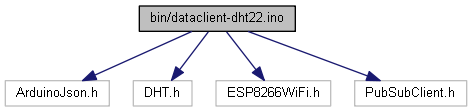
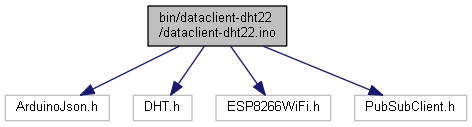
doxygen fix and link

diff --git a/doc/html/dataclient-dht22_8ino.html b/doc/html/dataclient-dht22_8ino.html
@@ -5,7 +5,7 @@
 <meta http-equiv="X-UA-Compatible" content="IE=9"/>
 <meta name="generator" content="Doxygen 1.8.16"/>
 <meta name="viewport" content="width=device-width, initial-scale=1"/>
-<title>dataclient-dht22: Riferimenti per il file bin/dataclient-dht22.ino</title>
+<title>dataclient-dht22: Riferimenti per il file bin/dataclient-dht22/dataclient-dht22.ino</title>
 <link href="tabs.css" rel="stylesheet" type="text/css"/>
 <script type="text/javascript" src="jquery.js"></script>
 <script type="text/javascript" src="dynsections.js"></script>
@@ -61,7 +61,7 @@ $(function() {
 
 <div id="nav-path" class="navpath">
   <ul>
-<li class="navelem"><a class="el" href="dir_2ea30aa2956a8db99dd22aa5e597f384.html">bin</a></li>  </ul>
+<li class="navelem"><a class="el" href="dir_2ea30aa2956a8db99dd22aa5e597f384.html">bin</a></li><li class="navelem"><a class="el" href="dir_3f6a631fc59fe27ff538b9acb8bb3df0.html">dataclient-dht22</a></li>  </ul>
 </div>
 </div><!-- top -->
 <div class="header">
@@ -83,13 +83,13 @@ $(function() {
 </div><div class="textblock"><div class="dynheader">
 Grafo delle dipendenze di inclusione per dataclient-dht22.ino:</div>
 <div class="dyncontent">
-<div class="center"><img src="dataclient-dht22_8ino__incl.png" border="0" usemap="#bin_2dataclient-dht22_8ino" alt=""/></div>
-<map name="bin_2dataclient-dht22_8ino" id="bin_2dataclient-dht22_8ino">
-<area shape="rect" title="DATACLIENT&#45;DHT22: invia i dati recuperati dal dht22 al raspberry via MQTT." alt="" coords="139,5,295,32"/>
-<area shape="rect" title=" " alt="" coords="5,80,109,107"/>
-<area shape="rect" title=" " alt="" coords="133,80,192,107"/>
-<area shape="rect" title=" " alt="" coords="216,80,331,107"/>
-<area shape="rect" title=" " alt="" coords="355,80,467,107"/>
+<div class="center"><img src="dataclient-dht22_8ino__incl.png" border="0" usemap="#bin_2dataclient-dht22_2dataclient-dht22_8ino" alt=""/></div>
+<map name="bin_2dataclient-dht22_2dataclient-dht22_8ino" id="bin_2dataclient-dht22_2dataclient-dht22_8ino">
+<area shape="rect" title="DATACLIENT&#45;DHT22: invia i dati recuperati dal dht22 al raspberry via MQTT." alt="" coords="148,5,287,47"/>
+<area shape="rect" title=" " alt="" coords="5,95,109,121"/>
+<area shape="rect" title=" " alt="" coords="133,95,192,121"/>
+<area shape="rect" title=" " alt="" coords="216,95,331,121"/>
+<area shape="rect" title=" " alt="" coords="355,95,467,121"/>
 </map>
 </div>
 </div><table class="memberdecls">
@@ -143,12 +143,9 @@ Variabili</h2></td></tr>
 <tr class="memitem:aba729b10c25de58d10906ff55bfedfe6"><td class="memItemLeft" align="right" valign="top">const int&#160;</td><td class="memItemRight" valign="bottom"><a class="el" href="dataclient-dht22_8ino.html#aba729b10c25de58d10906ff55bfedfe6">nodeType</a> = 0</td></tr>
 <tr class="memdesc:aba729b10c25de58d10906ff55bfedfe6"><td class="mdescLeft">&#160;</td><td class="mdescRight">tipo di nodo  <a href="dataclient-dht22_8ino.html#aba729b10c25de58d10906ff55bfedfe6">Continua...</a><br /></td></tr>
 <tr class="separator:aba729b10c25de58d10906ff55bfedfe6"><td class="memSeparator" colspan="2">&#160;</td></tr>
-<tr class="memitem:a832256579e70aec4d1ed877ea4f8de51"><td class="memItemLeft" align="right" valign="top">const char&#160;</td><td class="memItemRight" valign="bottom"><a class="el" href="dataclient-dht22_8ino.html#a832256579e70aec4d1ed877ea4f8de51">domain</a> [15] = &quot;raspberry&quot;</td></tr>
-<tr class="memdesc:a832256579e70aec4d1ed877ea4f8de51"><td class="mdescLeft">&#160;</td><td class="mdescRight">IP/nome raspberry.  <a href="dataclient-dht22_8ino.html#a832256579e70aec4d1ed877ea4f8de51">Continua...</a><br /></td></tr>
-<tr class="separator:a832256579e70aec4d1ed877ea4f8de51"><td class="memSeparator" colspan="2">&#160;</td></tr>
-<tr class="memitem:a5c3a4fd5ba9caa71fbbf780cf3f454fa"><td class="memItemLeft" align="right" valign="top">const char *&#160;</td><td class="memItemRight" valign="bottom"><a class="el" href="dataclient-dht22_8ino.html#a5c3a4fd5ba9caa71fbbf780cf3f454fa">mqttServer</a> = <a class="el" href="dataclient-dht22_8ino.html#a832256579e70aec4d1ed877ea4f8de51">domain</a></td></tr>
-<tr class="memdesc:a5c3a4fd5ba9caa71fbbf780cf3f454fa"><td class="mdescLeft">&#160;</td><td class="mdescRight">IP/nome mqtt server.  <a href="dataclient-dht22_8ino.html#a5c3a4fd5ba9caa71fbbf780cf3f454fa">Continua...</a><br /></td></tr>
-<tr class="separator:a5c3a4fd5ba9caa71fbbf780cf3f454fa"><td class="memSeparator" colspan="2">&#160;</td></tr>
+<tr class="memitem:a2ce62b30bf3f07dea1e21cb804f745ec"><td class="memItemLeft" align="right" valign="top">const char&#160;</td><td class="memItemRight" valign="bottom"><a class="el" href="dataclient-dht22_8ino.html#a2ce62b30bf3f07dea1e21cb804f745ec">mqttServer</a> [15] = &quot;raspberry&quot;</td></tr>
+<tr class="memdesc:a2ce62b30bf3f07dea1e21cb804f745ec"><td class="mdescLeft">&#160;</td><td class="mdescRight">IP/dominio mqtt server.  <a href="dataclient-dht22_8ino.html#a2ce62b30bf3f07dea1e21cb804f745ec">Continua...</a><br /></td></tr>
+<tr class="separator:a2ce62b30bf3f07dea1e21cb804f745ec"><td class="memSeparator" colspan="2">&#160;</td></tr>
 <tr class="memitem:ab0e976d2d404b48fc6943d0eff7a5995"><td class="memItemLeft" align="right" valign="top">const int&#160;</td><td class="memItemRight" valign="bottom"><a class="el" href="dataclient-dht22_8ino.html#ab0e976d2d404b48fc6943d0eff7a5995">mqttPort</a> = 1883</td></tr>
 <tr class="memdesc:ab0e976d2d404b48fc6943d0eff7a5995"><td class="mdescLeft">&#160;</td><td class="mdescRight">porta mqtt  <a href="dataclient-dht22_8ino.html#ab0e976d2d404b48fc6943d0eff7a5995">Continua...</a><br /></td></tr>
 <tr class="separator:ab0e976d2d404b48fc6943d0eff7a5995"><td class="memSeparator" colspan="2">&#160;</td></tr>
@@ -204,7 +201,7 @@ Variabili</h2></td></tr>
 <p>Per farlo si usa la funzione <a class="el" href="dataclient-dht22_8ino.html#aab521726203688c14cf1da7acaf2ff80">macAddrToString()</a> </p>
 </blockquote>
 <blockquote class="doxtable">
-<p>Formato: AB:AB:AB:AB:AB:AB </p>
+<p>Formato: @codeAB:AB:AB:AB:AB:AB </p>
 </blockquote>
 <p>Nella funzione <a class="el" href="dataclient-dht22_8ino.html#afe461d27b9c48d5921c00d521181f12f">loop()</a> viene gestita la connessione all'access point di raspberry attraverso la funzione <a class="el" href="dataclient-dht22_8ino.html#a26a10865a648cd7d2bc8bc9cedf7fbd7">WiFiconn()</a> e la connessione al broker MQTT con la funzione <a class="el" href="dataclient-dht22_8ino.html#a9c9dcfb4015f19781a9988b72d1f0400">MQTTconn()</a>. </p><blockquote class="doxtable">
 <p><a class="el" href="dataclient-dht22_8ino.html#a26a10865a648cd7d2bc8bc9cedf7fbd7">WiFiconn()</a> memorizza l'indirizzo IP nella stringa &lt;ipAddr&gt; </p>
@@ -213,8 +210,8 @@ Variabili</h2></td></tr>
 <p><a class="el" href="dataclient-dht22_8ino.html#a9c9dcfb4015f19781a9988b72d1f0400">MQTTconn()</a> annuncia la presenza del sensore al sistema usando la funzione <a class="el" href="dataclient-dht22_8ino.html#a150ffb0f8328a3a283e2cb8933c89b48">present()</a> </p>
 </blockquote>
 <p>Dopo essersi connessi all'AP e al broker MQTT vengono rilevate temperatura e umidita' dal DHT22 e viene misurato l'RSSI. Temperatura, umidita' e RSSI vengono mandati al broker MQTT dalla funzione <a class="el" href="dataclient-dht22_8ino.html#a6e502e8e735f761ce96e1744f8cdbba0">reportData()</a></p>
-<dl class="section author"><dt>Autore</dt><dd>$Stefano Zenaro$ </dd></dl>
-<dl class="section version"><dt>Versione</dt><dd>$01_01$ </dd></dl>
+<dl class="section author"><dt>Autore</dt><dd>Stefano Zenaro </dd></dl>
+<dl class="section version"><dt>Versione</dt><dd>01_01 </dd></dl>
 <dl class="section date"><dt>Data</dt><dd></dd></dl>
 <dl class="section rcs"><dt>Date</dt><dd>2020/02/08 20:42:00 </dd></dl>
 </div><h2 class="groupheader">Documentazione delle definizioni</h2>
@@ -526,7 +523,7 @@ Questo è il grafo dei chiamanti di questa funzione:</div>
       </table>
 </div><div class="memdoc">
 <p>Presenta il dispositivo al sistema via messaggio MQTT.</p>
-<p>Manda sul topic presentation/&lt;mac&gt; il proprio indirizzo MAC, IP e tipo di nodo. Se il dispositivo e' riuscito a inviare il dato il client si iscrive al topic per ottenere configurazioni dal raspberry, altrimenti si disconnette dal broker per cercare di ri-presentarsi alla prossima connessione</p>
+<p>Manda sul topic presentation/&lt;mac&gt; il proprio indirizzo MAC, IP, tipo di nodo e timeToWait. Se il dispositivo e' riuscito a inviare il dato il client si iscrive al topic per ottenere configurazioni dal raspberry, altrimenti si disconnette dal broker per cercare di ri-presentarsi alla prossima connessione</p>
 <div class="dynheader">
 Questo è il grafo delle chiamate per questa funzione:</div>
 <div class="dyncontent">
@@ -748,35 +745,19 @@ Questo è il grafo delle chiamate per questa funzione:</div>
 
 </div>
 </div>
-<a id="a832256579e70aec4d1ed877ea4f8de51"></a>
-<h2 class="memtitle"><span class="permalink"><a href="#a832256579e70aec4d1ed877ea4f8de51">&#9670;&nbsp;</a></span>domain</h2>
+<a id="a2ce62b30bf3f07dea1e21cb804f745ec"></a>
+<h2 class="memtitle"><span class="permalink"><a href="#a2ce62b30bf3f07dea1e21cb804f745ec">&#9670;&nbsp;</a></span>mqttServer</h2>
 
 <div class="memitem">
 <div class="memproto">
       <table class="memname">
         <tr>
-          <td class="memname">const char domain[15] = &quot;raspberry&quot;</td>
+          <td class="memname">const char mqttServer[15] = &quot;raspberry&quot;</td>
         </tr>
       </table>
 </div><div class="memdoc">
 
-<p>IP/nome raspberry. </p>
-
-</div>
-</div>
-<a id="a5c3a4fd5ba9caa71fbbf780cf3f454fa"></a>
-<h2 class="memtitle"><span class="permalink"><a href="#a5c3a4fd5ba9caa71fbbf780cf3f454fa">&#9670;&nbsp;</a></span>mqttServer</h2>
-
-<div class="memitem">
-<div class="memproto">
-      <table class="memname">
-        <tr>
-          <td class="memname">const char* mqttServer = <a class="el" href="dataclient-dht22_8ino.html#a832256579e70aec4d1ed877ea4f8de51">domain</a></td>
-        </tr>
-      </table>
-</div><div class="memdoc">
-
-<p>IP/nome mqtt server. </p>
+<p>IP/dominio mqtt server. </p>
 
 </div>
 </div>
@@ -1021,38 +1002,37 @@ Questo è il grafo delle chiamate per questa funzione:</div>
 </div>
 </div>
 </div><!-- contents -->
-<div class="ttc" id="adataclient-dht22_8ino_html_a7d012d8689a06650286105a11fe38024"><div class="ttname"><a href="dataclient-dht22_8ino.html#a7d012d8689a06650286105a11fe38024">mqttUser</a></div><div class="ttdeci">const char * mqttUser</div><div class="ttdoc">utente mqtt</div><div class="ttdef"><b>Definition:</b> dataclient-dht22.ino:54</div></div>
-<div class="ttc" id="adataclient-dht22_8ino_html_afc1d28cfbce795d6ea954ebe725241f5"><div class="ttname"><a href="dataclient-dht22_8ino.html#afc1d28cfbce795d6ea954ebe725241f5">temperature</a></div><div class="ttdeci">float temperature</div><div class="ttdoc">temperatura Celsius (default 12.34 come test)</div><div class="ttdef"><b>Definition:</b> dataclient-dht22.ino:63</div></div>
-<div class="ttc" id="adataclient-dht22_8ino_html_a9c9dcfb4015f19781a9988b72d1f0400"><div class="ttname"><a href="dataclient-dht22_8ino.html#a9c9dcfb4015f19781a9988b72d1f0400">MQTTconn</a></div><div class="ttdeci">void MQTTconn()</div><div class="ttdef"><b>Definition:</b> dataclient-dht22.ino:182</div></div>
+<div class="ttc" id="adataclient-dht22_8ino_html_a7d012d8689a06650286105a11fe38024"><div class="ttname"><a href="dataclient-dht22_8ino.html#a7d012d8689a06650286105a11fe38024">mqttUser</a></div><div class="ttdeci">const char * mqttUser</div><div class="ttdoc">utente mqtt</div><div class="ttdef"><b>Definition:</b> dataclient-dht22.ino:53</div></div>
+<div class="ttc" id="adataclient-dht22_8ino_html_afc1d28cfbce795d6ea954ebe725241f5"><div class="ttname"><a href="dataclient-dht22_8ino.html#afc1d28cfbce795d6ea954ebe725241f5">temperature</a></div><div class="ttdeci">float temperature</div><div class="ttdoc">temperatura Celsius (default 12.34 come test)</div><div class="ttdef"><b>Definition:</b> dataclient-dht22.ino:62</div></div>
+<div class="ttc" id="adataclient-dht22_8ino_html_a9c9dcfb4015f19781a9988b72d1f0400"><div class="ttname"><a href="dataclient-dht22_8ino.html#a9c9dcfb4015f19781a9988b72d1f0400">MQTTconn</a></div><div class="ttdeci">void MQTTconn()</div><div class="ttdef"><b>Definition:</b> dataclient-dht22.ino:181</div></div>
 <div class="ttc" id="adataclient-dht22_8ino_html_ac3a129f66dc859e2b7279565f4e1de78"><div class="ttname"><a href="dataclient-dht22_8ino.html#ac3a129f66dc859e2b7279565f4e1de78">callback</a></div><div class="ttdeci">void callback(char *topic, byte *payload, unsigned int length)</div><div class="ttdef"><b>Definition:</b> dataclient-dht22.ino:288</div></div>
 <div class="ttc" id="adataclient-dht22_8ino_html_afe461d27b9c48d5921c00d521181f12f"><div class="ttname"><a href="dataclient-dht22_8ino.html#afe461d27b9c48d5921c00d521181f12f">loop</a></div><div class="ttdeci">void loop()</div><div class="ttdef"><b>Definition:</b> dataclient-dht22.ino:428</div></div>
 <div class="ttc" id="adataclient-dht22_8ino_html_a4eabb42c6f4925264712f1141e5fb615"><div class="ttname"><a href="dataclient-dht22_8ino.html#a4eabb42c6f4925264712f1141e5fb615">dim_helper</a></div><div class="ttdeci">char(&amp; dim_helper(T(&amp;)[N]))[N]</div></div>
-<div class="ttc" id="adataclient-dht22_8ino_html_ae8f5cd957935271a64234fe32a13119c"><div class="ttname"><a href="dataclient-dht22_8ino.html#ae8f5cd957935271a64234fe32a13119c">optMainTopic</a></div><div class="ttdeci">char optMainTopic[9]</div><div class="ttdoc">topic principale opzioni</div><div class="ttdef"><b>Definition:</b> dataclient-dht22.ino:58</div></div>
-<div class="ttc" id="adataclient-dht22_8ino_html_adf337f3fdeade1f6e95b99545888802d"><div class="ttname"><a href="dataclient-dht22_8ino.html#adf337f3fdeade1f6e95b99545888802d">macAddr</a></div><div class="ttdeci">char macAddr[18]</div><div class="ttdoc">contiene MAC address</div><div class="ttdef"><b>Definition:</b> dataclient-dht22.ino:73</div></div>
-<div class="ttc" id="adataclient-dht22_8ino_html_a6670f1bf8a46e53e0cb698faccd68b0c"><div class="ttname"><a href="dataclient-dht22_8ino.html#a6670f1bf8a46e53e0cb698faccd68b0c">mqttPassword</a></div><div class="ttdeci">const char * mqttPassword</div><div class="ttdoc">password mqtt</div><div class="ttdef"><b>Definition:</b> dataclient-dht22.ino:55</div></div>
+<div class="ttc" id="adataclient-dht22_8ino_html_ae8f5cd957935271a64234fe32a13119c"><div class="ttname"><a href="dataclient-dht22_8ino.html#ae8f5cd957935271a64234fe32a13119c">optMainTopic</a></div><div class="ttdeci">char optMainTopic[9]</div><div class="ttdoc">topic principale opzioni</div><div class="ttdef"><b>Definition:</b> dataclient-dht22.ino:57</div></div>
+<div class="ttc" id="adataclient-dht22_8ino_html_adf337f3fdeade1f6e95b99545888802d"><div class="ttname"><a href="dataclient-dht22_8ino.html#adf337f3fdeade1f6e95b99545888802d">macAddr</a></div><div class="ttdeci">char macAddr[18]</div><div class="ttdoc">contiene MAC address</div><div class="ttdef"><b>Definition:</b> dataclient-dht22.ino:72</div></div>
+<div class="ttc" id="adataclient-dht22_8ino_html_a6670f1bf8a46e53e0cb698faccd68b0c"><div class="ttname"><a href="dataclient-dht22_8ino.html#a6670f1bf8a46e53e0cb698faccd68b0c">mqttPassword</a></div><div class="ttdeci">const char * mqttPassword</div><div class="ttdoc">password mqtt</div><div class="ttdef"><b>Definition:</b> dataclient-dht22.ino:54</div></div>
 <div class="ttc" id="adataclient-dht22_8ino_html_aee63e84c606cfaefce454689113c636c"><div class="ttname"><a href="dataclient-dht22_8ino.html#aee63e84c606cfaefce454689113c636c">client</a></div><div class="ttdeci">PubSubClient client(espClient)</div><div class="ttdoc">usa client WiFi per MQTT</div></div>
-<div class="ttc" id="adataclient-dht22_8ino_html_ac469baf1a74d8ccd3418803298174f09"><div class="ttname"><a href="dataclient-dht22_8ino.html#ac469baf1a74d8ccd3418803298174f09">timeSinceLastRead</a></div><div class="ttdeci">int timeSinceLastRead</div><div class="ttdoc">variabile tempo dall'ultima lettura DHT</div><div class="ttdef"><b>Definition:</b> dataclient-dht22.ino:65</div></div>
+<div class="ttc" id="adataclient-dht22_8ino_html_ac469baf1a74d8ccd3418803298174f09"><div class="ttname"><a href="dataclient-dht22_8ino.html#ac469baf1a74d8ccd3418803298174f09">timeSinceLastRead</a></div><div class="ttdeci">int timeSinceLastRead</div><div class="ttdoc">variabile tempo dall'ultima lettura DHT</div><div class="ttdef"><b>Definition:</b> dataclient-dht22.ino:64</div></div>
 <div class="ttc" id="adataclient-dht22_8ino_html_a715bd4a5aba9545ff96c20f5026f75db"><div class="ttname"><a href="dataclient-dht22_8ino.html#a715bd4a5aba9545ff96c20f5026f75db">dhtConnected</a></div><div class="ttdeci">#define dhtConnected</div><div class="ttdoc">true = DHT22 utilizzabile/connesso</div><div class="ttdef"><b>Definition:</b> dataclient-dht22.ino:42</div></div>
 <div class="ttc" id="adataclient-dht22_8ino_html_a2c509dba12bba99883a5be9341b7a0c5"><div class="ttname"><a href="dataclient-dht22_8ino.html#a2c509dba12bba99883a5be9341b7a0c5">DHTTYPE</a></div><div class="ttdeci">#define DHTTYPE</div><div class="ttdoc">tipo di sensore DHT (DHT22)</div><div class="ttdef"><b>Definition:</b> dataclient-dht22.ino:46</div></div>
-<div class="ttc" id="adataclient-dht22_8ino_html_a6a87b2b0cff24d38b367ccd34843a206"><div class="ttname"><a href="dataclient-dht22_8ino.html#a6a87b2b0cff24d38b367ccd34843a206">humidity</a></div><div class="ttdeci">float humidity</div><div class="ttdoc">umidita' (default 12.34 come test)</div><div class="ttdef"><b>Definition:</b> dataclient-dht22.ino:62</div></div>
-<div class="ttc" id="adataclient-dht22_8ino_html_a26a10865a648cd7d2bc8bc9cedf7fbd7"><div class="ttname"><a href="dataclient-dht22_8ino.html#a26a10865a648cd7d2bc8bc9cedf7fbd7">WiFiconn</a></div><div class="ttdeci">void WiFiconn()</div><div class="ttdef"><b>Definition:</b> dataclient-dht22.ino:86</div></div>
+<div class="ttc" id="adataclient-dht22_8ino_html_a6a87b2b0cff24d38b367ccd34843a206"><div class="ttname"><a href="dataclient-dht22_8ino.html#a6a87b2b0cff24d38b367ccd34843a206">humidity</a></div><div class="ttdeci">float humidity</div><div class="ttdoc">umidita' (default 12.34 come test)</div><div class="ttdef"><b>Definition:</b> dataclient-dht22.ino:61</div></div>
+<div class="ttc" id="adataclient-dht22_8ino_html_a26a10865a648cd7d2bc8bc9cedf7fbd7"><div class="ttname"><a href="dataclient-dht22_8ino.html#a26a10865a648cd7d2bc8bc9cedf7fbd7">WiFiconn</a></div><div class="ttdeci">void WiFiconn()</div><div class="ttdef"><b>Definition:</b> dataclient-dht22.ino:85</div></div>
 <div class="ttc" id="adataclient-dht22_8ino_html_ad7a1df263f6f823242a112ec11297434"><div class="ttname"><a href="dataclient-dht22_8ino.html#ad7a1df263f6f823242a112ec11297434">dht</a></div><div class="ttdeci">DHT dht(DHTPIN, DHTTYPE)</div><div class="ttdoc">creazione oggetto dht</div></div>
-<div class="ttc" id="adataclient-dht22_8ino_html_ac5a38fc25a4e37970a393d8e794b37c4"><div class="ttname"><a href="dataclient-dht22_8ino.html#ac5a38fc25a4e37970a393d8e794b37c4">ipAddr</a></div><div class="ttdeci">char ipAddr[16]</div><div class="ttdoc">contiene IP address</div><div class="ttdef"><b>Definition:</b> dataclient-dht22.ino:72</div></div>
-<div class="ttc" id="adataclient-dht22_8ino_html_aab521726203688c14cf1da7acaf2ff80"><div class="ttname"><a href="dataclient-dht22_8ino.html#aab521726203688c14cf1da7acaf2ff80">macAddrToString</a></div><div class="ttdeci">void macAddrToString(byte *mac, char *str)</div><div class="ttdef"><b>Definition:</b> dataclient-dht22.ino:155</div></div>
+<div class="ttc" id="adataclient-dht22_8ino_html_ac5a38fc25a4e37970a393d8e794b37c4"><div class="ttname"><a href="dataclient-dht22_8ino.html#ac5a38fc25a4e37970a393d8e794b37c4">ipAddr</a></div><div class="ttdeci">char ipAddr[16]</div><div class="ttdoc">contiene IP address</div><div class="ttdef"><b>Definition:</b> dataclient-dht22.ino:71</div></div>
+<div class="ttc" id="adataclient-dht22_8ino_html_aab521726203688c14cf1da7acaf2ff80"><div class="ttname"><a href="dataclient-dht22_8ino.html#aab521726203688c14cf1da7acaf2ff80">macAddrToString</a></div><div class="ttdeci">void macAddrToString(byte *mac, char *str)</div><div class="ttdef"><b>Definition:</b> dataclient-dht22.ino:154</div></div>
 <div class="ttc" id="adataclient-dht22_8ino_html_a4fc01d736fe50cf5b977f755b675f11d"><div class="ttname"><a href="dataclient-dht22_8ino.html#a4fc01d736fe50cf5b977f755b675f11d">setup</a></div><div class="ttdeci">void setup()</div><div class="ttdef"><b>Definition:</b> dataclient-dht22.ino:395</div></div>
 <div class="ttc" id="adataclient-dht22_8ino_html_aba729b10c25de58d10906ff55bfedfe6"><div class="ttname"><a href="dataclient-dht22_8ino.html#aba729b10c25de58d10906ff55bfedfe6">nodeType</a></div><div class="ttdeci">const int nodeType</div><div class="ttdoc">tipo di nodo</div><div class="ttdef"><b>Definition:</b> dataclient-dht22.ino:48</div></div>
-<div class="ttc" id="adataclient-dht22_8ino_html_abd670c5c7d88e028d53f03b2ff07b720"><div class="ttname"><a href="dataclient-dht22_8ino.html#abd670c5c7d88e028d53f03b2ff07b720">timeToWait</a></div><div class="ttdeci">int timeToWait</div><div class="ttdoc">variabile tempo da aspettare per interrogare DHT (minimo 2000 [ms])</div><div class="ttdef"><b>Definition:</b> dataclient-dht22.ino:66</div></div>
-<div class="ttc" id="adataclient-dht22_8ino_html_a586c86c64e7d30517aeee0fe47a25ae4"><div class="ttname"><a href="dataclient-dht22_8ino.html#a586c86c64e7d30517aeee0fe47a25ae4">WIFI_SSID</a></div><div class="ttdeci">const char * WIFI_SSID</div><div class="ttdoc">SSID access point.</div><div class="ttdef"><b>Definition:</b> dataclient-dht22.ino:69</div></div>
-<div class="ttc" id="adataclient-dht22_8ino_html_a4b637d7e13b7c44fa7b411ba7b6301f2"><div class="ttname"><a href="dataclient-dht22_8ino.html#a4b637d7e13b7c44fa7b411ba7b6301f2">dataMainTopic</a></div><div class="ttdeci">char dataMainTopic[6]</div><div class="ttdoc">topic principale dati</div><div class="ttdef"><b>Definition:</b> dataclient-dht22.ino:59</div></div>
-<div class="ttc" id="adataclient-dht22_8ino_html_ab0e976d2d404b48fc6943d0eff7a5995"><div class="ttname"><a href="dataclient-dht22_8ino.html#ab0e976d2d404b48fc6943d0eff7a5995">mqttPort</a></div><div class="ttdeci">const int mqttPort</div><div class="ttdoc">porta mqtt</div><div class="ttdef"><b>Definition:</b> dataclient-dht22.ino:53</div></div>
-<div class="ttc" id="adataclient-dht22_8ino_html_aa0d894a281cd4525d1dad48b1a7161ef"><div class="ttname"><a href="dataclient-dht22_8ino.html#aa0d894a281cd4525d1dad48b1a7161ef">WIFI_PASS</a></div><div class="ttdeci">const char * WIFI_PASS</div><div class="ttdoc">Passphrase access point.</div><div class="ttdef"><b>Definition:</b> dataclient-dht22.ino:70</div></div>
+<div class="ttc" id="adataclient-dht22_8ino_html_abd670c5c7d88e028d53f03b2ff07b720"><div class="ttname"><a href="dataclient-dht22_8ino.html#abd670c5c7d88e028d53f03b2ff07b720">timeToWait</a></div><div class="ttdeci">int timeToWait</div><div class="ttdoc">variabile tempo da aspettare per interrogare DHT (minimo 2000 [ms])</div><div class="ttdef"><b>Definition:</b> dataclient-dht22.ino:65</div></div>
+<div class="ttc" id="adataclient-dht22_8ino_html_a586c86c64e7d30517aeee0fe47a25ae4"><div class="ttname"><a href="dataclient-dht22_8ino.html#a586c86c64e7d30517aeee0fe47a25ae4">WIFI_SSID</a></div><div class="ttdeci">const char * WIFI_SSID</div><div class="ttdoc">SSID access point.</div><div class="ttdef"><b>Definition:</b> dataclient-dht22.ino:68</div></div>
+<div class="ttc" id="adataclient-dht22_8ino_html_a2ce62b30bf3f07dea1e21cb804f745ec"><div class="ttname"><a href="dataclient-dht22_8ino.html#a2ce62b30bf3f07dea1e21cb804f745ec">mqttServer</a></div><div class="ttdeci">const char mqttServer[15]</div><div class="ttdoc">IP/dominio mqtt server.</div><div class="ttdef"><b>Definition:</b> dataclient-dht22.ino:51</div></div>
+<div class="ttc" id="adataclient-dht22_8ino_html_a4b637d7e13b7c44fa7b411ba7b6301f2"><div class="ttname"><a href="dataclient-dht22_8ino.html#a4b637d7e13b7c44fa7b411ba7b6301f2">dataMainTopic</a></div><div class="ttdeci">char dataMainTopic[6]</div><div class="ttdoc">topic principale dati</div><div class="ttdef"><b>Definition:</b> dataclient-dht22.ino:58</div></div>
+<div class="ttc" id="adataclient-dht22_8ino_html_ab0e976d2d404b48fc6943d0eff7a5995"><div class="ttname"><a href="dataclient-dht22_8ino.html#ab0e976d2d404b48fc6943d0eff7a5995">mqttPort</a></div><div class="ttdeci">const int mqttPort</div><div class="ttdoc">porta mqtt</div><div class="ttdef"><b>Definition:</b> dataclient-dht22.ino:52</div></div>
+<div class="ttc" id="adataclient-dht22_8ino_html_aa0d894a281cd4525d1dad48b1a7161ef"><div class="ttname"><a href="dataclient-dht22_8ino.html#aa0d894a281cd4525d1dad48b1a7161ef">WIFI_PASS</a></div><div class="ttdeci">const char * WIFI_PASS</div><div class="ttdoc">Passphrase access point.</div><div class="ttdef"><b>Definition:</b> dataclient-dht22.ino:69</div></div>
 <div class="ttc" id="adataclient-dht22_8ino_html_ad43d79e2dc6c459e188e5540e0f30129"><div class="ttname"><a href="dataclient-dht22_8ino.html#ad43d79e2dc6c459e188e5540e0f30129">dim</a></div><div class="ttdeci">#define dim(x)</div><div class="ttdef"><b>Definition:</b> dataclient-dht22.ino:30</div></div>
-<div class="ttc" id="adataclient-dht22_8ino_html_a5c3a4fd5ba9caa71fbbf780cf3f454fa"><div class="ttname"><a href="dataclient-dht22_8ino.html#a5c3a4fd5ba9caa71fbbf780cf3f454fa">mqttServer</a></div><div class="ttdeci">const char * mqttServer</div><div class="ttdoc">IP/nome mqtt server.</div><div class="ttdef"><b>Definition:</b> dataclient-dht22.ino:52</div></div>
-<div class="ttc" id="adataclient-dht22_8ino_html_a150ffb0f8328a3a283e2cb8933c89b48"><div class="ttname"><a href="dataclient-dht22_8ino.html#a150ffb0f8328a3a283e2cb8933c89b48">present</a></div><div class="ttdeci">void present()</div><div class="ttdef"><b>Definition:</b> dataclient-dht22.ino:237</div></div>
+<div class="ttc" id="adataclient-dht22_8ino_html_a150ffb0f8328a3a283e2cb8933c89b48"><div class="ttname"><a href="dataclient-dht22_8ino.html#a150ffb0f8328a3a283e2cb8933c89b48">present</a></div><div class="ttdeci">void present()</div><div class="ttdef"><b>Definition:</b> dataclient-dht22.ino:236</div></div>
 <div class="ttc" id="adataclient-dht22_8ino_html_a6e502e8e735f761ce96e1744f8cdbba0"><div class="ttname"><a href="dataclient-dht22_8ino.html#a6e502e8e735f761ce96e1744f8cdbba0">reportData</a></div><div class="ttdeci">void reportData(float t_humidity, float t_temp, int t_rssi)</div><div class="ttdef"><b>Definition:</b> dataclient-dht22.ino:350</div></div>
-<div class="ttc" id="adataclient-dht22_8ino_html_a8c2ce2bfcc55084c237040e1712f2ce6"><div class="ttname"><a href="dataclient-dht22_8ino.html#a8c2ce2bfcc55084c237040e1712f2ce6">prMainTopic</a></div><div class="ttdeci">char prMainTopic[14]</div><div class="ttdoc">topic principale presentazione</div><div class="ttdef"><b>Definition:</b> dataclient-dht22.ino:57</div></div>
-<div class="ttc" id="adataclient-dht22_8ino_html_a832256579e70aec4d1ed877ea4f8de51"><div class="ttname"><a href="dataclient-dht22_8ino.html#a832256579e70aec4d1ed877ea4f8de51">domain</a></div><div class="ttdeci">const char domain[15]</div><div class="ttdoc">IP/nome raspberry.</div><div class="ttdef"><b>Definition:</b> dataclient-dht22.ino:49</div></div>
-<div class="ttc" id="adataclient-dht22_8ino_html_abd77e757e4b3bb6f1e4b42b21ea9e040"><div class="ttname"><a href="dataclient-dht22_8ino.html#abd77e757e4b3bb6f1e4b42b21ea9e040">espClient</a></div><div class="ttdeci">WiFiClient espClient</div><div class="ttdoc">crea un client WiFI</div><div class="ttdef"><b>Definition:</b> dataclient-dht22.ino:80</div></div>
+<div class="ttc" id="adataclient-dht22_8ino_html_a8c2ce2bfcc55084c237040e1712f2ce6"><div class="ttname"><a href="dataclient-dht22_8ino.html#a8c2ce2bfcc55084c237040e1712f2ce6">prMainTopic</a></div><div class="ttdeci">char prMainTopic[14]</div><div class="ttdoc">topic principale presentazione</div><div class="ttdef"><b>Definition:</b> dataclient-dht22.ino:56</div></div>
+<div class="ttc" id="adataclient-dht22_8ino_html_abd77e757e4b3bb6f1e4b42b21ea9e040"><div class="ttname"><a href="dataclient-dht22_8ino.html#abd77e757e4b3bb6f1e4b42b21ea9e040">espClient</a></div><div class="ttdeci">WiFiClient espClient</div><div class="ttdoc">crea un client WiFI</div><div class="ttdef"><b>Definition:</b> dataclient-dht22.ino:79</div></div>
 <div class="ttc" id="adataclient-dht22_8ino_html_af99a155b83efd55836851d9737899e55"><div class="ttname"><a href="dataclient-dht22_8ino.html#af99a155b83efd55836851d9737899e55">serialDebug</a></div><div class="ttdeci">#define serialDebug</div><div class="ttdoc">true = visualizza messaggi di debug attraverso comunicazione seriale</div><div class="ttdef"><b>Definition:</b> dataclient-dht22.ino:43</div></div>
 <div class="ttc" id="adataclient-dht22_8ino_html_a757bb4e2bff6148de6ef3989b32a0126"><div class="ttname"><a href="dataclient-dht22_8ino.html#a757bb4e2bff6148de6ef3989b32a0126">DHTPIN</a></div><div class="ttdeci">#define DHTPIN</div><div class="ttdoc">pin dato del DHT22</div><div class="ttdef"><b>Definition:</b> dataclient-dht22.ino:45</div></div>
 <!-- start footer part -->

diff --git a/doc/html/index.html b/doc/html/index.html
@@ -130,20 +130,20 @@ $(function() {
 <p>Selezionare da <code>Strumenti</code> la porta a cui e' connessa la scheda e premere il pulsante <code>Carica</code> per caricare lo sketch.</p>
 <h1>Descrizione</h1>
 <p><img src="doc/assets/setup_loop.svg" alt="" class="inline"/></p>
-<p>Come in tutti gli sketch arduino vengono definiti variabili e oggetti, poi viene richiamata una volta la funzione <code>setup()</code> e infine viene richiamata "all'infinito" la funzione <code>loop()</code></p>
+<p>Come in tutti gli sketch arduino vengono definiti variabili e oggetti, poi viene richiamata una volta la funzione <code><a class="el" href="dataclient-dht22_8ino.html#a4fc01d736fe50cf5b977f755b675f11d">setup()</a></code> e infine viene richiamata "all'infinito" la funzione <code><a class="el" href="dataclient-dht22_8ino.html#afe461d27b9c48d5921c00d521181f12f">loop()</a></code></p>
 <p><img src="doc/assets/setup.svg" alt="" class="inline"/></p>
-<p>La funzione <code>setup()</code> richiama la funzione <code>macAddrToString()</code> per definire nella variabile stringa <code>&lt;macAddr&gt;</code> l'indirizzo MAC. La funzione poi si assicura che <code>&lt;timeToWait&gt;</code>, il tempo interposto tra le rilevazioni, sia un numero accettabile (&gt;= 2000 [ms]) </p><blockquote class="doxtable">
+<p>La funzione <code><a class="el" href="dataclient-dht22_8ino.html#a4fc01d736fe50cf5b977f755b675f11d">setup()</a></code> richiama la funzione <code><a class="el" href="dataclient-dht22_8ino.html#aab521726203688c14cf1da7acaf2ff80">macAddrToString()</a></code> per definire nella variabile stringa <code>&lt;macAddr&gt;</code> l'indirizzo MAC. La funzione poi si assicura che <code>&lt;timeToWait&gt;</code>, il tempo interposto tra le rilevazioni, sia un numero accettabile (&gt;= 2000 [ms]) </p><blockquote class="doxtable">
 <p>Altrimenti viene impostato 2000 come valore di default (2 secondi tra lettura) </p>
 </blockquote>
 <p><img src="doc/assets/loop.svg" alt="" class="inline"/></p>
-<p>La funzione <code>loop()</code> mantiene la scheda connessa all'access point di raspberry (con la funzione <code>WiFiconn()</code>) e al broker MQTT (con la funzione <code>MQTTconn()</code> e il metodo <code>client.loop()</code>). Se la scheda e' connessa a WiFi e broker MQTT si verifica se e' stato atteso il tempo <code>&lt;timeToWait&gt;</code>: se e' così viene rilevata temperatura e umidita' e memorizzato l'RSSI.</p>
-<p>Lo sketch, dopo essersi assicurato che le rilevazioni hanno avuto successo, utilizza la funzione <code>reportData()</code> per inviare i dati al broker MQTT.</p>
-<p>Per la documentazione dettagliata del codice (creata da doxygen) visitare <a href="doc/html/index.html">questa pagina</a></p>
+<p>La funzione <code><a class="el" href="dataclient-dht22_8ino.html#afe461d27b9c48d5921c00d521181f12f">loop()</a></code> mantiene la scheda connessa all'access point di raspberry (con la funzione <code><a class="el" href="dataclient-dht22_8ino.html#a26a10865a648cd7d2bc8bc9cedf7fbd7">WiFiconn()</a></code>) e al broker MQTT (con la funzione <code><a class="el" href="dataclient-dht22_8ino.html#a9c9dcfb4015f19781a9988b72d1f0400">MQTTconn()</a></code> e il metodo <code>client.loop()</code>). Se la scheda e' connessa a WiFi e broker MQTT si verifica se e' stato atteso il tempo <code>&lt;timeToWait&gt;</code>: se e' così viene rilevata temperatura e umidita' e memorizzato l'RSSI.</p>
+<p>Lo sketch, dopo essersi assicurato che le rilevazioni hanno avuto successo, utilizza la funzione <code><a class="el" href="dataclient-dht22_8ino.html#a6e502e8e735f761ce96e1744f8cdbba0">reportData()</a></code> per inviare i dati al broker MQTT.</p>
+<p>Per la documentazione dettagliata del codice (creata da doxygen) visitare <a href="https://progetto201.github.io/dataclient-dht22/doc/html/index.html">questa pagina</a></p>
 <h2>Dettagli funzioni</h2>
 <pre class="fragment">macAddrToString()
 </pre><p> Scorre l'array di byte restituito da <code>WiFi.macAddress()</code>, concatena come stringa i byte e la salva in <code>&lt;macAddr&gt;</code> </p><pre class="fragment">WiFiconn()
 </pre><p> Si connette al WiFi e salva nella stringa <code>&lt;ipAddr&gt;</code> l'indirizzo IP </p><pre class="fragment">MQTTconn()
-</pre><p> Si connette al broker MQTT e richiama la funzione <code>present()</code> </p><pre class="fragment">present()
+</pre><p> Si connette al broker MQTT e richiama la funzione <code><a class="el" href="dataclient-dht22_8ino.html#a150ffb0f8328a3a283e2cb8933c89b48">present()</a></code> </p><pre class="fragment">present()
 </pre><p> Invia al broker MQTT indirizzi IP e MAC, tipo di nodo e <code>&lt;timeToWait&gt;</code> in formato JSON </p><pre class="fragment">reportData()
 </pre><p> Invia al broker MQTT i dati rilevati dal sensore e l'RSSI in formato JSON</p>
 <h1>Requisiti</h1>

diff --git a/doc/html/dir_3f6a631fc59fe27ff538b9acb8bb3df0.html b/doc/html/dir_3f6a631fc59fe27ff538b9acb8bb3df0.html
@@ -5,7 +5,7 @@
 <meta http-equiv="X-UA-Compatible" content="IE=9"/>
 <meta name="generator" content="Doxygen 1.8.16"/>
 <meta name="viewport" content="width=device-width, initial-scale=1"/>
-<title>dataclient-dht22: Riferimenti per la directory bin</title>
+<title>dataclient-dht22: Riferimenti per la directory bin/dataclient-dht22</title>
 <link href="tabs.css" rel="stylesheet" type="text/css"/>
 <script type="text/javascript" src="jquery.js"></script>
 <script type="text/javascript" src="dynsections.js"></script>
@@ -61,18 +61,19 @@ $(function() {
 
 <div id="nav-path" class="navpath">
   <ul>
-<li class="navelem"><a class="el" href="dir_2ea30aa2956a8db99dd22aa5e597f384.html">bin</a></li>  </ul>
+<li class="navelem"><a class="el" href="dir_2ea30aa2956a8db99dd22aa5e597f384.html">bin</a></li><li class="navelem"><a class="el" href="dir_3f6a631fc59fe27ff538b9acb8bb3df0.html">dataclient-dht22</a></li>  </ul>
 </div>
 </div><!-- top -->
 <div class="header">
   <div class="headertitle">
-<div class="title">Riferimenti per la directory bin</div>  </div>
+<div class="title">Riferimenti per la directory dataclient-dht22</div>  </div>
 </div><!--header-->
 <div class="contents">
 <table class="memberdecls">
-<tr class="heading"><td colspan="2"><h2 class="groupheader"><a name="subdirs"></a>
-Directory</h2></td></tr>
-<tr class="memitem:dir_3f6a631fc59fe27ff538b9acb8bb3df0"><td class="memItemLeft" align="right" valign="top">directory &#160;</td><td class="memItemRight" valign="bottom"><a class="el" href="dir_3f6a631fc59fe27ff538b9acb8bb3df0.html">dataclient-dht22</a></td></tr>
+<tr class="heading"><td colspan="2"><h2 class="groupheader"><a name="files"></a>
+File</h2></td></tr>
+<tr class="memitem:dataclient-dht22_8ino"><td class="memItemLeft" align="right" valign="top">file &#160;</td><td class="memItemRight" valign="bottom"><a class="el" href="dataclient-dht22_8ino.html">dataclient-dht22.ino</a></td></tr>
+<tr class="memdesc:dataclient-dht22_8ino"><td class="mdescLeft">&#160;</td><td class="mdescRight">DATACLIENT-DHT22: invia i dati recuperati dal dht22 al raspberry via MQTT. <br /></td></tr>
 <tr class="separator:"><td class="memSeparator" colspan="2">&#160;</td></tr>
 </table>
 </div><!-- contents -->

diff --git a/doc/html/files.html b/doc/html/files.html
@@ -66,9 +66,10 @@ $(function() {
 </div><!--header-->
 <div class="contents">
 <div class="textblock">Questo è un elenco di tutti i file con una loro breve descrizione:</div><div class="directory">
-<div class="levels">[livello di dettaglio <span onclick="javascript:toggleLevel(1);">1</span><span onclick="javascript:toggleLevel(2);">2</span>]</div><table class="directory">
+<div class="levels">[livello di dettaglio <span onclick="javascript:toggleLevel(1);">1</span><span onclick="javascript:toggleLevel(2);">2</span><span onclick="javascript:toggleLevel(3);">3</span>]</div><table class="directory">
 <tr id="row_0_" class="even"><td class="entry"><span style="width:0px;display:inline-block;">&#160;</span><span id="arr_0_" class="arrow" onclick="toggleFolder('0_')">&#9660;</span><span id="img_0_" class="iconfopen" onclick="toggleFolder('0_')">&#160;</span><a class="el" href="dir_2ea30aa2956a8db99dd22aa5e597f384.html" target="_self">bin</a></td><td class="desc"></td></tr>
-<tr id="row_0_0_"><td class="entry"><span style="width:32px;display:inline-block;">&#160;</span><span class="icondoc"></span><a class="el" href="dataclient-dht22_8ino.html" target="_self">dataclient-dht22.ino</a></td><td class="desc">DATACLIENT-DHT22: invia i dati recuperati dal dht22 al raspberry via MQTT </td></tr>
+<tr id="row_0_0_"><td class="entry"><span style="width:16px;display:inline-block;">&#160;</span><span id="arr_0_0_" class="arrow" onclick="toggleFolder('0_0_')">&#9660;</span><span id="img_0_0_" class="iconfopen" onclick="toggleFolder('0_0_')">&#160;</span><a class="el" href="dir_3f6a631fc59fe27ff538b9acb8bb3df0.html" target="_self">dataclient-dht22</a></td><td class="desc"></td></tr>
+<tr id="row_0_0_0_" class="even"><td class="entry"><span style="width:48px;display:inline-block;">&#160;</span><span class="icondoc"></span><a class="el" href="dataclient-dht22_8ino.html" target="_self">dataclient-dht22.ino</a></td><td class="desc">DATACLIENT-DHT22: invia i dati recuperati dal dht22 al raspberry via MQTT </td></tr>
 </table>
 </div><!-- directory -->
 </div><!-- contents -->

diff --git a/doc/html/search/variables_4.js b/doc/html/search/variables_4.js
@@ -1,8 +1,8 @@
 var searchData=
 [
-  ['macaddr_54',['macAddr',['../dataclient-dht22_8ino.html#adf337f3fdeade1f6e95b99545888802d',1,'dataclient-dht22.ino']]],
-  ['mqttpassword_55',['mqttPassword',['../dataclient-dht22_8ino.html#a6670f1bf8a46e53e0cb698faccd68b0c',1,'dataclient-dht22.ino']]],
-  ['mqttport_56',['mqttPort',['../dataclient-dht22_8ino.html#ab0e976d2d404b48fc6943d0eff7a5995',1,'dataclient-dht22.ino']]],
-  ['mqttserver_57',['mqttServer',['../dataclient-dht22_8ino.html#a5c3a4fd5ba9caa71fbbf780cf3f454fa',1,'dataclient-dht22.ino']]],
-  ['mqttuser_58',['mqttUser',['../dataclient-dht22_8ino.html#a7d012d8689a06650286105a11fe38024',1,'dataclient-dht22.ino']]]
+  ['macaddr_53',['macAddr',['../dataclient-dht22_8ino.html#adf337f3fdeade1f6e95b99545888802d',1,'dataclient-dht22.ino']]],
+  ['mqttpassword_54',['mqttPassword',['../dataclient-dht22_8ino.html#a6670f1bf8a46e53e0cb698faccd68b0c',1,'dataclient-dht22.ino']]],
+  ['mqttport_55',['mqttPort',['../dataclient-dht22_8ino.html#ab0e976d2d404b48fc6943d0eff7a5995',1,'dataclient-dht22.ino']]],
+  ['mqttserver_56',['mqttServer',['../dataclient-dht22_8ino.html#a2ce62b30bf3f07dea1e21cb804f745ec',1,'dataclient-dht22.ino']]],
+  ['mqttuser_57',['mqttUser',['../dataclient-dht22_8ino.html#a7d012d8689a06650286105a11fe38024',1,'dataclient-dht22.ino']]]
 ];

diff --git a/doc/html/search/all_1.js b/doc/html/search/all_1.js
@@ -1,4 +1,12 @@
 var searchData=
 [
-  ['readme_2emd_1',['README.md',['../_r_e_a_d_m_e_8md.html',1,'']]]
+  ['dataclient_2ddht22_2eino_2',['dataclient-dht22.ino',['../dataclient-dht22_8ino.html',1,'']]],
+  ['datamaintopic_3',['dataMainTopic',['../dataclient-dht22_8ino.html#a4b637d7e13b7c44fa7b411ba7b6301f2',1,'dataclient-dht22.ino']]],
+  ['dht_4',['dht',['../dataclient-dht22_8ino.html#ad7a1df263f6f823242a112ec11297434',1,'dataclient-dht22.ino']]],
+  ['dhtconnected_5',['dhtConnected',['../dataclient-dht22_8ino.html#a715bd4a5aba9545ff96c20f5026f75db',1,'dataclient-dht22.ino']]],
+  ['dhtpin_6',['DHTPIN',['../dataclient-dht22_8ino.html#a757bb4e2bff6148de6ef3989b32a0126',1,'dataclient-dht22.ino']]],
+  ['dhttype_7',['DHTTYPE',['../dataclient-dht22_8ino.html#a2c509dba12bba99883a5be9341b7a0c5',1,'dataclient-dht22.ino']]],
+  ['dim_8',['dim',['../dataclient-dht22_8ino.html#ad43d79e2dc6c459e188e5540e0f30129',1,'dataclient-dht22.ino']]],
+  ['dim_5fhelper_9',['dim_helper',['../dataclient-dht22_8ino.html#a4eabb42c6f4925264712f1141e5fb615',1,'dataclient-dht22.ino']]],
+  ['dataclient_2ddht22_10',['DATACLIENT-DHT22',['../index.html',1,'']]]
 ];

diff --git a/doc/html/menudata.js b/doc/html/menudata.js
@@ -21,4 +21,25 @@ with this program; if not, write to the Free Software Foundation, Inc.,
 for the JavaScript code in this file
 */
 var menudata={children:[
-{text:"Pagina Principale",url:"index.html"}]}
+{text:"Pagina Principale",url:"index.html"},
+{text:"File",url:"files.html",children:[
+{text:"Elenco dei file",url:"files.html"},
+{text:"Elementi dei file",url:"globals.html",children:[
+{text:"Tutto",url:"globals.html",children:[
+{text:"c",url:"globals.html#index_c"},
+{text:"d",url:"globals.html#index_d"},
+{text:"e",url:"globals.html#index_e"},
+{text:"h",url:"globals.html#index_h"},
+{text:"i",url:"globals.html#index_i"},
+{text:"l",url:"globals.html#index_l"},
+{text:"m",url:"globals.html#index_m"},
+{text:"n",url:"globals.html#index_n"},
+{text:"o",url:"globals.html#index_o"},
+{text:"p",url:"globals.html#index_p"},
+{text:"r",url:"globals.html#index_r"},
+{text:"s",url:"globals.html#index_s"},
+{text:"t",url:"globals.html#index_t"},
+{text:"w",url:"globals.html#index_w"}]},
+{text:"Funzioni",url:"globals_func.html"},
+{text:"Variabili",url:"globals_vars.html"},
+{text:"Definizioni",url:"globals_defs.html"}]}]}]}

diff --git a/doc/html/search/defines_0.js b/doc/html/search/defines_0.js
@@ -1,7 +1,7 @@
 var searchData=
 [
-  ['dhtconnected_67',['dhtConnected',['../dataclient-dht22_8ino.html#a715bd4a5aba9545ff96c20f5026f75db',1,'dataclient-dht22.ino']]],
-  ['dhtpin_68',['DHTPIN',['../dataclient-dht22_8ino.html#a757bb4e2bff6148de6ef3989b32a0126',1,'dataclient-dht22.ino']]],
-  ['dhttype_69',['DHTTYPE',['../dataclient-dht22_8ino.html#a2c509dba12bba99883a5be9341b7a0c5',1,'dataclient-dht22.ino']]],
-  ['dim_70',['dim',['../dataclient-dht22_8ino.html#ad43d79e2dc6c459e188e5540e0f30129',1,'dataclient-dht22.ino']]]
+  ['dhtconnected_66',['dhtConnected',['../dataclient-dht22_8ino.html#a715bd4a5aba9545ff96c20f5026f75db',1,'dataclient-dht22.ino']]],
+  ['dhtpin_67',['DHTPIN',['../dataclient-dht22_8ino.html#a757bb4e2bff6148de6ef3989b32a0126',1,'dataclient-dht22.ino']]],
+  ['dhttype_68',['DHTTYPE',['../dataclient-dht22_8ino.html#a2c509dba12bba99883a5be9341b7a0c5',1,'dataclient-dht22.ino']]],
+  ['dim_69',['dim',['../dataclient-dht22_8ino.html#ad43d79e2dc6c459e188e5540e0f30129',1,'dataclient-dht22.ino']]]
 ];

diff --git a/doc/html/globals_vars.html b/doc/html/globals_vars.html
@@ -65,9 +65,6 @@ $(function() {
 <li>dataMainTopic
 : <a class="el" href="dataclient-dht22_8ino.html#a4b637d7e13b7c44fa7b411ba7b6301f2">dataclient-dht22.ino</a>
 </li>
-<li>domain
-: <a class="el" href="dataclient-dht22_8ino.html#a832256579e70aec4d1ed877ea4f8de51">dataclient-dht22.ino</a>
-</li>
 <li>espClient
 : <a class="el" href="dataclient-dht22_8ino.html#abd77e757e4b3bb6f1e4b42b21ea9e040">dataclient-dht22.ino</a>
 </li>
@@ -87,7 +84,7 @@ $(function() {
 : <a class="el" href="dataclient-dht22_8ino.html#ab0e976d2d404b48fc6943d0eff7a5995">dataclient-dht22.ino</a>
 </li>
 <li>mqttServer
-: <a class="el" href="dataclient-dht22_8ino.html#a5c3a4fd5ba9caa71fbbf780cf3f454fa">dataclient-dht22.ino</a>
+: <a class="el" href="dataclient-dht22_8ino.html#a2ce62b30bf3f07dea1e21cb804f745ec">dataclient-dht22.ino</a>
 </li>
 <li>mqttUser
 : <a class="el" href="dataclient-dht22_8ino.html#a7d012d8689a06650286105a11fe38024">dataclient-dht22.ino</a>

diff --git a/doc/html/search/variables_8.js b/doc/html/search/variables_8.js
@@ -1,6 +1,6 @@
 var searchData=
 [
-  ['temperature_62',['temperature',['../dataclient-dht22_8ino.html#afc1d28cfbce795d6ea954ebe725241f5',1,'dataclient-dht22.ino']]],
-  ['timesincelastread_63',['timeSinceLastRead',['../dataclient-dht22_8ino.html#ac469baf1a74d8ccd3418803298174f09',1,'dataclient-dht22.ino']]],
-  ['timetowait_64',['timeToWait',['../dataclient-dht22_8ino.html#abd670c5c7d88e028d53f03b2ff07b720',1,'dataclient-dht22.ino']]]
+  ['temperature_61',['temperature',['../dataclient-dht22_8ino.html#afc1d28cfbce795d6ea954ebe725241f5',1,'dataclient-dht22.ino']]],
+  ['timesincelastread_62',['timeSinceLastRead',['../dataclient-dht22_8ino.html#ac469baf1a74d8ccd3418803298174f09',1,'dataclient-dht22.ino']]],
+  ['timetowait_63',['timeToWait',['../dataclient-dht22_8ino.html#abd670c5c7d88e028d53f03b2ff07b720',1,'dataclient-dht22.ino']]]
 ];

diff --git a/doc/html/globals.html b/doc/html/globals.html
@@ -95,9 +95,6 @@ $(function() {
 <li>dim_helper()
 : <a class="el" href="dataclient-dht22_8ino.html#a4eabb42c6f4925264712f1141e5fb615">dataclient-dht22.ino</a>
 </li>
-<li>domain
-: <a class="el" href="dataclient-dht22_8ino.html#a832256579e70aec4d1ed877ea4f8de51">dataclient-dht22.ino</a>
-</li>
 </ul>
 
 
@@ -146,7 +143,7 @@ $(function() {
 : <a class="el" href="dataclient-dht22_8ino.html#ab0e976d2d404b48fc6943d0eff7a5995">dataclient-dht22.ino</a>
 </li>
 <li>mqttServer
-: <a class="el" href="dataclient-dht22_8ino.html#a5c3a4fd5ba9caa71fbbf780cf3f454fa">dataclient-dht22.ino</a>
+: <a class="el" href="dataclient-dht22_8ino.html#a2ce62b30bf3f07dea1e21cb804f745ec">dataclient-dht22.ino</a>
 </li>
 <li>mqttUser
 : <a class="el" href="dataclient-dht22_8ino.html#a7d012d8689a06650286105a11fe38024">dataclient-dht22.ino</a>

diff --git a/doc/html/search/all_6.js b/doc/html/search/all_6.js
@@ -5,6 +5,6 @@ var searchData=
   ['mqttconn_17',['MQTTconn',['../dataclient-dht22_8ino.html#a9c9dcfb4015f19781a9988b72d1f0400',1,'dataclient-dht22.ino']]],
   ['mqttpassword_18',['mqttPassword',['../dataclient-dht22_8ino.html#a6670f1bf8a46e53e0cb698faccd68b0c',1,'dataclient-dht22.ino']]],
   ['mqttport_19',['mqttPort',['../dataclient-dht22_8ino.html#ab0e976d2d404b48fc6943d0eff7a5995',1,'dataclient-dht22.ino']]],
-  ['mqttserver_20',['mqttServer',['../dataclient-dht22_8ino.html#a5c3a4fd5ba9caa71fbbf780cf3f454fa',1,'dataclient-dht22.ino']]],
+  ['mqttserver_20',['mqttServer',['../dataclient-dht22_8ino.html#a2ce62b30bf3f07dea1e21cb804f745ec',1,'dataclient-dht22.ino']]],
   ['mqttuser_21',['mqttUser',['../dataclient-dht22_8ino.html#a7d012d8689a06650286105a11fe38024',1,'dataclient-dht22.ino']]]
 ];
